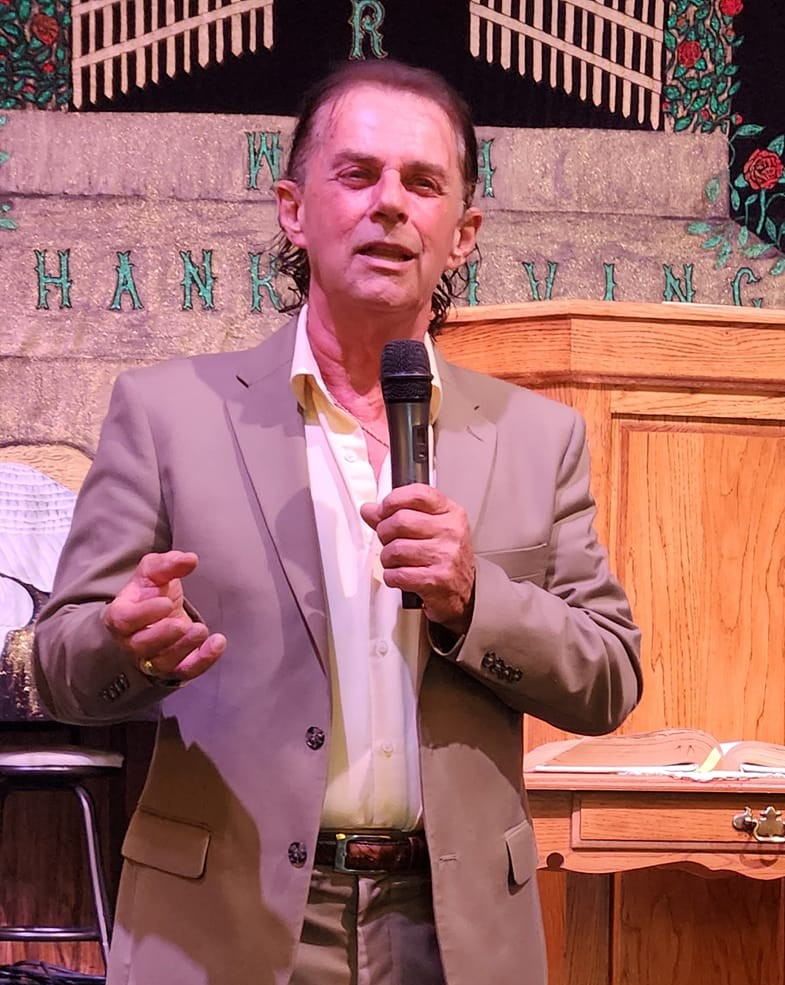
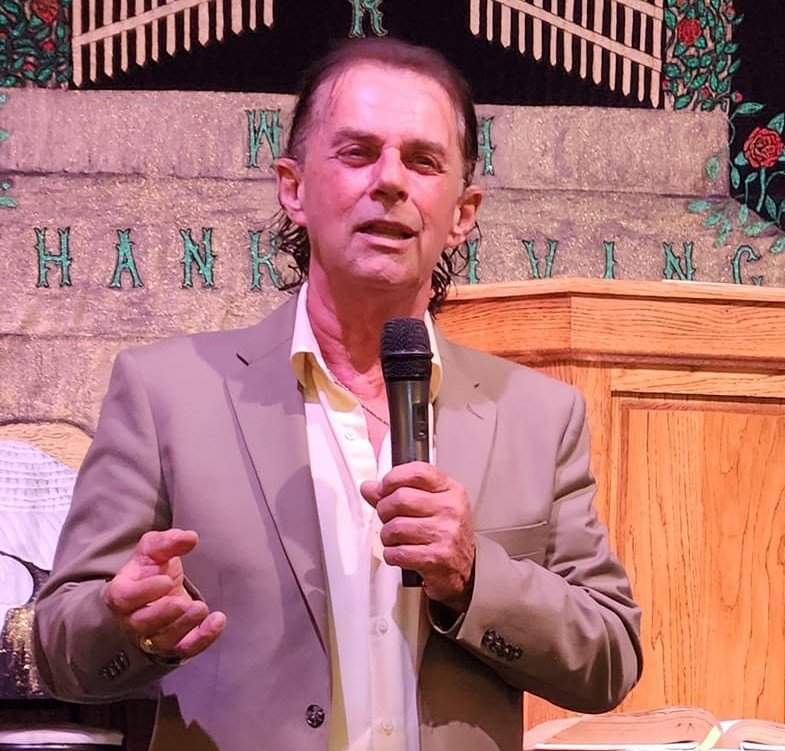
Update pastor portrait crop and let it size naturally

diff --git a/src/app/about/content.tsx b/src/app/about/content.tsx
@@ -85,9 +85,7 @@ export default function AboutPage() {
                 src="/pastor-tony-portrait.jpg"
                 sizes="(min-width: 1024px) 50vw, 100vw"
                 alt="Pastor Tony Redmon at New Life Assembly of God in Leitchfield, Kentucky"
-                width={1920}
-                height={1440}
-                className="relative w-full rounded-tl-[64px] rounded-br-[64px] rounded-tr-2xl rounded-bl-2xl shadow-xl"
+                className="relative w-full h-auto rounded-tl-[64px] rounded-br-[64px] rounded-tr-2xl rounded-bl-2xl shadow-xl"
                 loading="lazy"
               />
             </motion.div>
